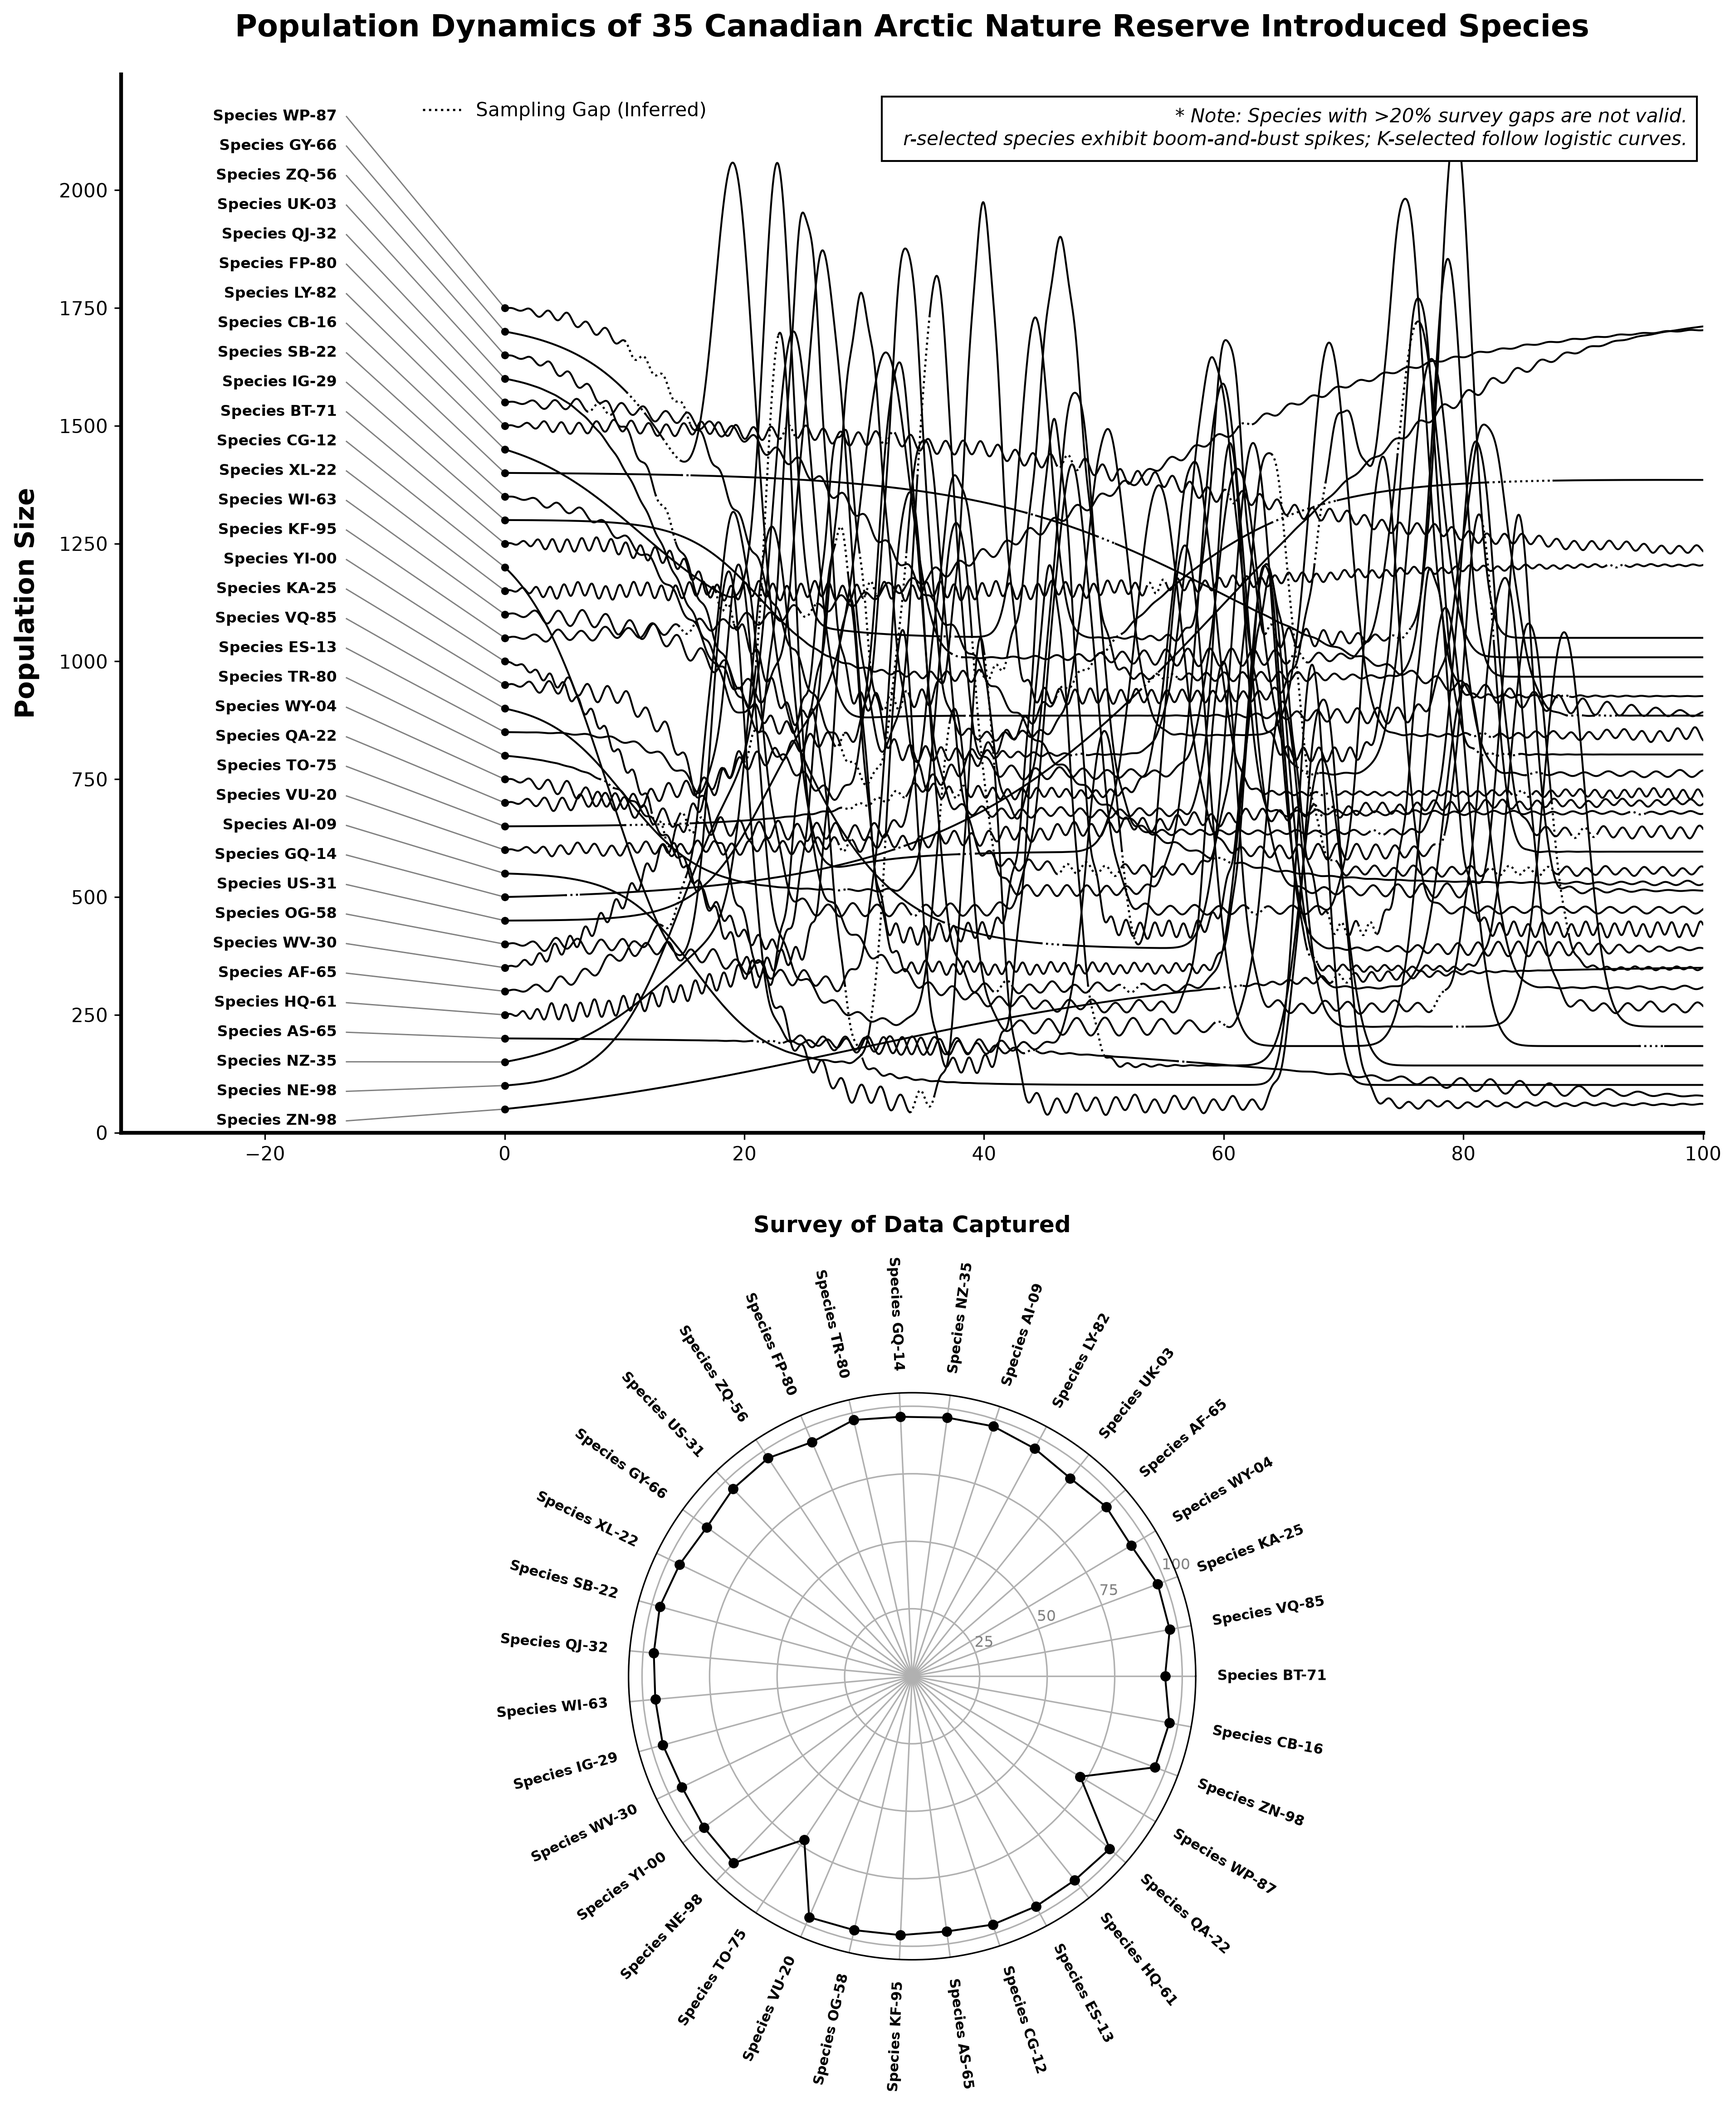
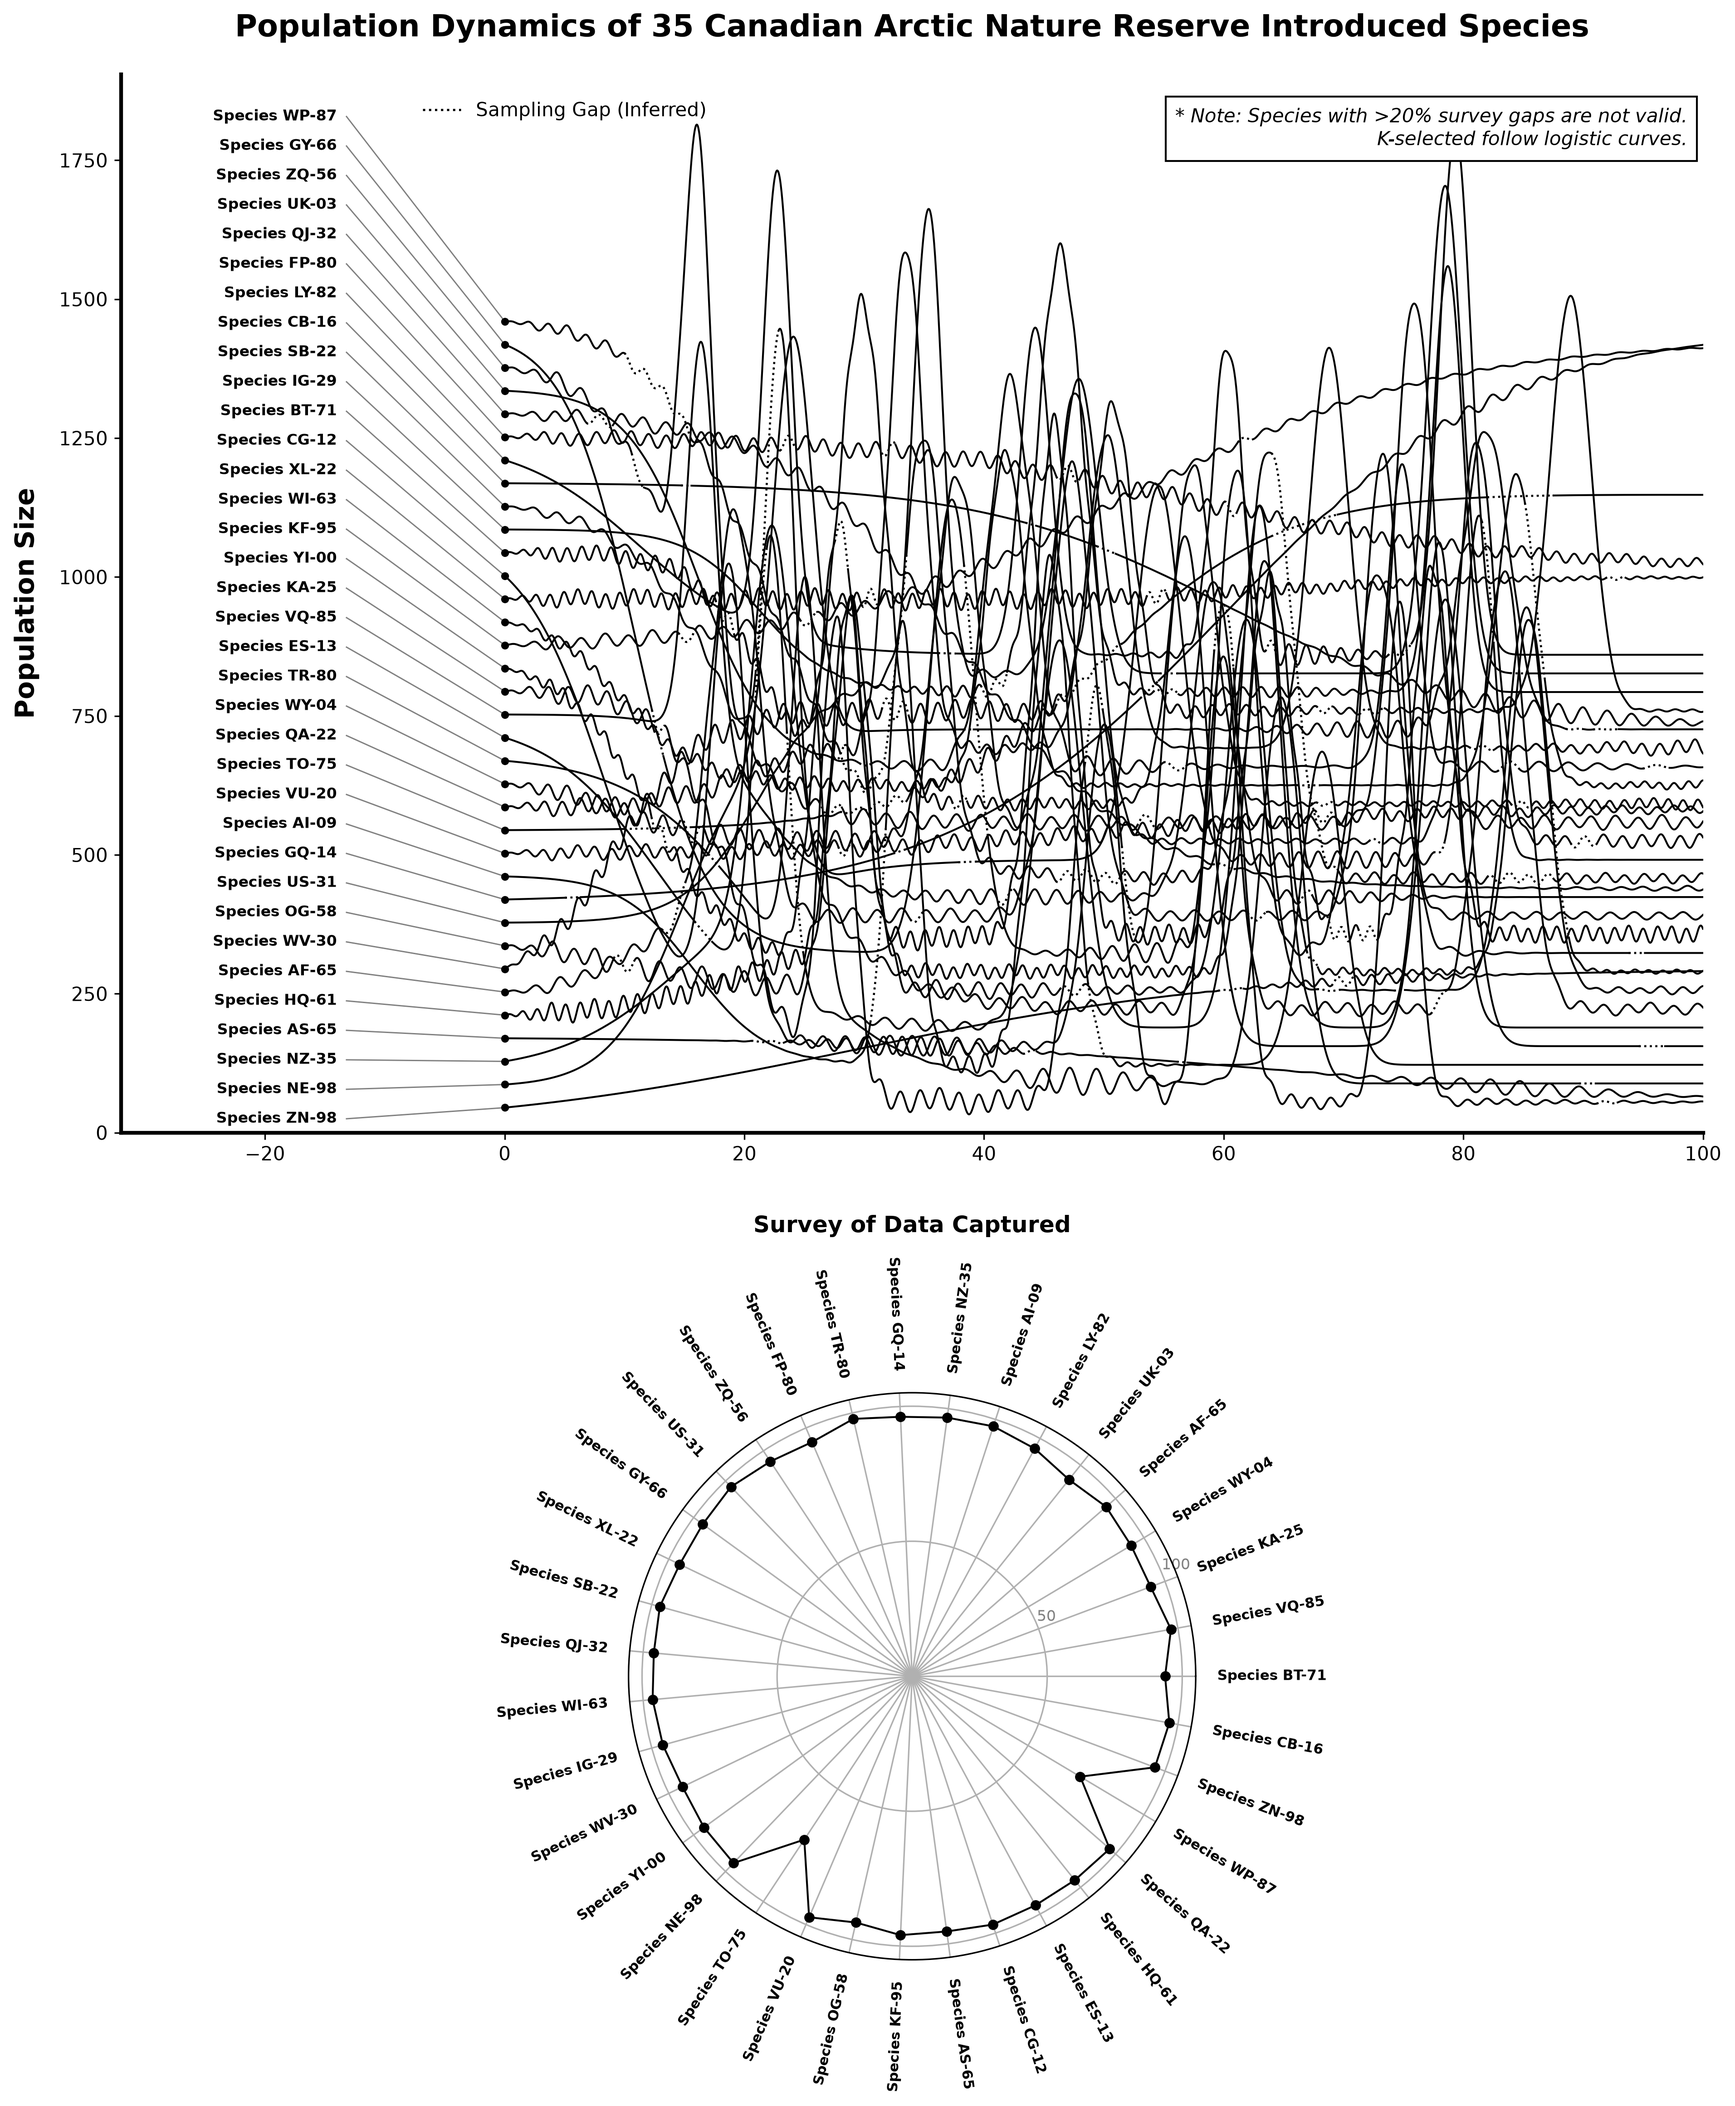
v15

diff --git a/generate-graph.py b/generate-graph.py
@@ -36,8 +36,8 @@ while len(unique_codes) < 35:
 unique_codes = sorted(list(unique_codes))
 random.shuffle(unique_codes)
 
-# 1. TIGHTER SPACING (Middle ground: ~49 units apart at t=0, distinct for humans but dense in the middle)
-all_target_starts = list(np.linspace(50, 1750, 35))
+# 1. RAZOR-EDGE SPACING (~41.6 units apart at t=0: right at the limit of human traceability without overlapping)
+all_target_starts = list(np.linspace(45, 1460, 35))
 random.shuffle(all_target_starts)
 k_starts = all_target_starts[:10]
 r_starts = all_target_starts[10:]
@@ -71,8 +71,8 @@ def add_shatter_jitter(pop_array, time_array):
     ramp = np.minimum(1.0, time_array / 4.0)
     envelope = (0.5 + 0.3 * np.sin(time_array * np.random.uniform(0.02, 0.08)) +
                 0.2 * np.cos(time_array * np.random.uniform(0.01, 0.05))) * ramp
-    wobble1 = np.random.uniform(12, 24) * np.sin(time_array * np.random.uniform(3.0, 5.5))
-    wobble2 = np.random.randint(2, 8) * np.sin(time_array * np.random.uniform(0.8, 2.0))
+    wobble1 = np.random.uniform(11, 22) * np.sin(time_array * np.random.uniform(3.0, 5.5))
+    wobble2 = np.random.randint(2, 7) * np.sin(time_array * np.random.uniform(0.8, 2.0))
     pop_array += (wobble1 + wobble2) * envelope
     return pop_array
 
@@ -86,7 +86,7 @@ def add_sectional_wobble(pop_array, time_array):
         span = np.random.uniform(4.5, 9.0)
         # Gaussian window restricts the wobble to a specific time section
         window = np.exp(-((time_array - center) ** 2) / (2 * span ** 2)) * ramp
-        wobble = np.random.uniform(10, 22) * np.sin(time_array * np.random.uniform(2.5, 5.0))
+        wobble = np.random.uniform(9, 20) * np.sin(time_array * np.random.uniform(2.5, 5.0))
         pop_array += wobble * window
     return pop_array
 
@@ -95,8 +95,8 @@ def add_sectional_wobble(pop_array, time_array):
 # POPULATION MATH (35 Species)
 # ==========================================
 
-# --- 10 K-selected species: Tighter vertical domain (180 to 1750) ---
-k_ends = list(np.linspace(180, 1750, 10))
+# --- 10 K-selected species: Tighter vertical domain (150 to 1450) ---
+k_ends = list(np.linspace(150, 1450, 10))
 random.shuffle(k_ends)
 
 for i in range(10):
@@ -122,7 +122,7 @@ for i in range(10):
     # Gentle carrying-capacity adjustment
     if random.random() > 0.5:
         shift_time = np.random.uniform(50, 80)
-        shift_amp = np.random.uniform(-180, 180)
+        shift_amp = np.random.uniform(-150, 150)
         shift_rate = np.random.uniform(0.06, 0.12)
         s_raw = 1.0 / (1.0 + np.exp(-shift_rate * (t - shift_time)))
         s_0 = 1.0 / (1.0 + np.exp(-shift_rate * (0.0 - shift_time)))
@@ -140,8 +140,8 @@ for i in range(10):
     pop_gaps = inject_missing_data(pop.copy(), t, is_decoy)
     lines.append((pop_gaps, pop_full))
 
-# --- 25 r-selected species: Compressed baselines (60 to 1050) for denser crossings ---
-r_baselines = list(np.linspace(60, 1050, 25))
+# --- 25 r-selected species: Tighter baselines (55 to 860, ~33.5 units apart) for maximum tangle ---
+r_baselines = list(np.linspace(55, 860, 25))
 random.shuffle(r_baselines)
 
 for i in range(25):
@@ -170,12 +170,12 @@ for i in range(25):
     else:
         pop = add_sectional_wobble(pop, t)
 
-    # 2 to 4 unmistakable boom-and-bust spikes (>550 prominence)
+    # 2 to 4 unmistakable boom-and-bust spikes
     num_spikes = np.random.randint(2, 5)
     windows = np.linspace(14, 92, num_spikes + 1)
     for w_idx in range(num_spikes):
         spike_time = np.random.uniform(windows[w_idx] + 2, windows[w_idx + 1] - 2)
-        spike_height = np.random.uniform(600, 1100)
+        spike_height = np.random.uniform(520, 950)
         width = np.random.uniform(2.5, 7.5)
 
         spike_curve = spike_height * np.exp(-((t - spike_time) ** 2) / width)
@@ -193,7 +193,7 @@ random.shuffle(combined)
 labels, lines = zip(*combined)
 
 max_pop_value = max([np.nanmax(pop_full) for pop_gaps, pop_full in lines])
-y_limit = max(1950.0, max_pop_value * 1.05)
+y_limit = max(1650.0, max_pop_value * 1.05)
 
 with open("ground_truth.json", "w") as f:
     json.dump(ground_truth, f, indent=4)
@@ -249,7 +249,7 @@ ax1.legend(handles=[gap_legend_line], loc='upper left', bbox_to_anchor=(0.18, 0.
 # Note defines the life-history rule qualitatively without giving away the numeric value
 ax1.text(0.99, 0.97,
          "* Note: Species with >20% survey gaps are not valid.\n"
-         "  r-selected species exhibit boom-and-bust spikes; K-selected follow logistic curves.",
+         "K-selected follow logistic curves.",
          transform=ax1.transAxes, ha='right', va='top', fontsize=10, color='black', fontstyle='italic',
          bbox=dict(facecolor='white', edgecolor='black', pad=5), zorder=250)
 
@@ -280,8 +280,8 @@ ax2.plot(angles_closed, scores_closed, color='black', linewidth=1.0, zorder=3)
 ax2.scatter(angles, completeness_scores, color='black', s=20, zorder=4)
 
 ax2.set_ylim(0, 105)
-ax2.set_yticks([25, 50, 75, 100])
-ax2.set_yticklabels(['25', '50', '75', '100'], color='gray', fontsize=8)
+ax2.set_yticks([50, 100])
+ax2.set_yticklabels([ '50',  '100'], color='gray', fontsize=8)
 ax2.set_xticks(angles)
 ax2.set_xticklabels([])  # Hide default horizontal labels to prevent pole collisions
 
